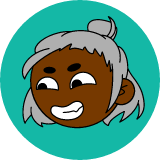
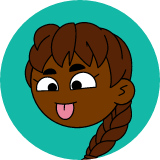
feat: noms 'clin d'oeil' au metier pour chaque membre
Remplace les noms génériques par des noms thématiques liés au service
(Marco Marketing, Audrey Audit, Fanny Facture...) et régénère les avatars
correspondants.

diff --git a/src/agentia/config_loader.py b/src/agentia/config_loader.py
@@ -63,30 +63,30 @@ AGENT_TO_TASK: Dict[str, str] = {
     **{spe: "tache_generique" for spe in SPECIALISTES},
 }
 
-# Prénom + nom donnés à chaque rôle (identité de l'équipe).
+# Prénom + nom donnés à chaque rôle : des noms « clin d'œil » au métier.
 NOMS: Dict[str, str] = {
-    CEO: "Camille Laurent",
-    "responsable_marketing": "Léa Moreau",
-    "responsable_marches_publics": "Karim Benali",
-    "responsable_commercial": "Marc Lefebvre",
-    "assistante_direction": "Sarah Lemoine",
-    "responsable_administratif": "Philippe Durand",
-    "responsable_certification_rs": "Nathalie Simon",
-    "community_manager": "Tom Bernard",
-    "webmaster_seo": "Hugo Petit",
-    "expert_google_ads": "Inès Garcia",
-    "veilleur_appels_offres": "Sophie Renaud",
-    "redacteur_memoire_technique": "Julien Faure",
-    "monteur_dossier_ao": "Nadia Cherif",
-    "charge_prospection": "Chloé Dubois",
-    "redacteur_propositions": "Antoine Roy",
-    "gestionnaire_emails": "Emma Girard",
-    "gestionnaire_drive": "Lucas Martin",
-    "redacteur_comptes_rendus": "Manon Robert",
-    "suivi_documents": "Claire Fontaine",
-    "facturation_tresorerie": "Yanis Brun",
-    "preparateur_audits": "David Mercier",
-    "redacteur_procedures": "Aurélie Blanc",
+    CEO: "Stella Stratégie",
+    "responsable_marketing": "Marco Marketing",
+    "responsable_marches_publics": "Marc Public",
+    "responsable_commercial": "Vince Vente",
+    "assistante_direction": "Aïda Agenda",
+    "responsable_administratif": "Finn Finance",
+    "responsable_certification_rs": "Quentin Qualité",
+    "community_manager": "Lina Réseaux",
+    "webmaster_seo": "Seb Référencement",
+    "expert_google_ads": "Ada Pub",
+    "veilleur_appels_offres": "Vic Veille",
+    "redacteur_memoire_technique": "Théo Technique",
+    "monteur_dossier_ao": "Dora Dossier",
+    "charge_prospection": "Léo Prospect",
+    "redacteur_propositions": "Davy Devis",
+    "gestionnaire_emails": "Mélanie Mail",
+    "gestionnaire_drive": "Clara Cloud",
+    "redacteur_comptes_rendus": "Renée Rapport",
+    "suivi_documents": "Valentine Validité",
+    "facturation_tresorerie": "Fanny Facture",
+    "preparateur_audits": "Audrey Audit",
+    "redacteur_procedures": "Paul Procédure",
 }
 
 # Libellés lisibles pour l'interface
